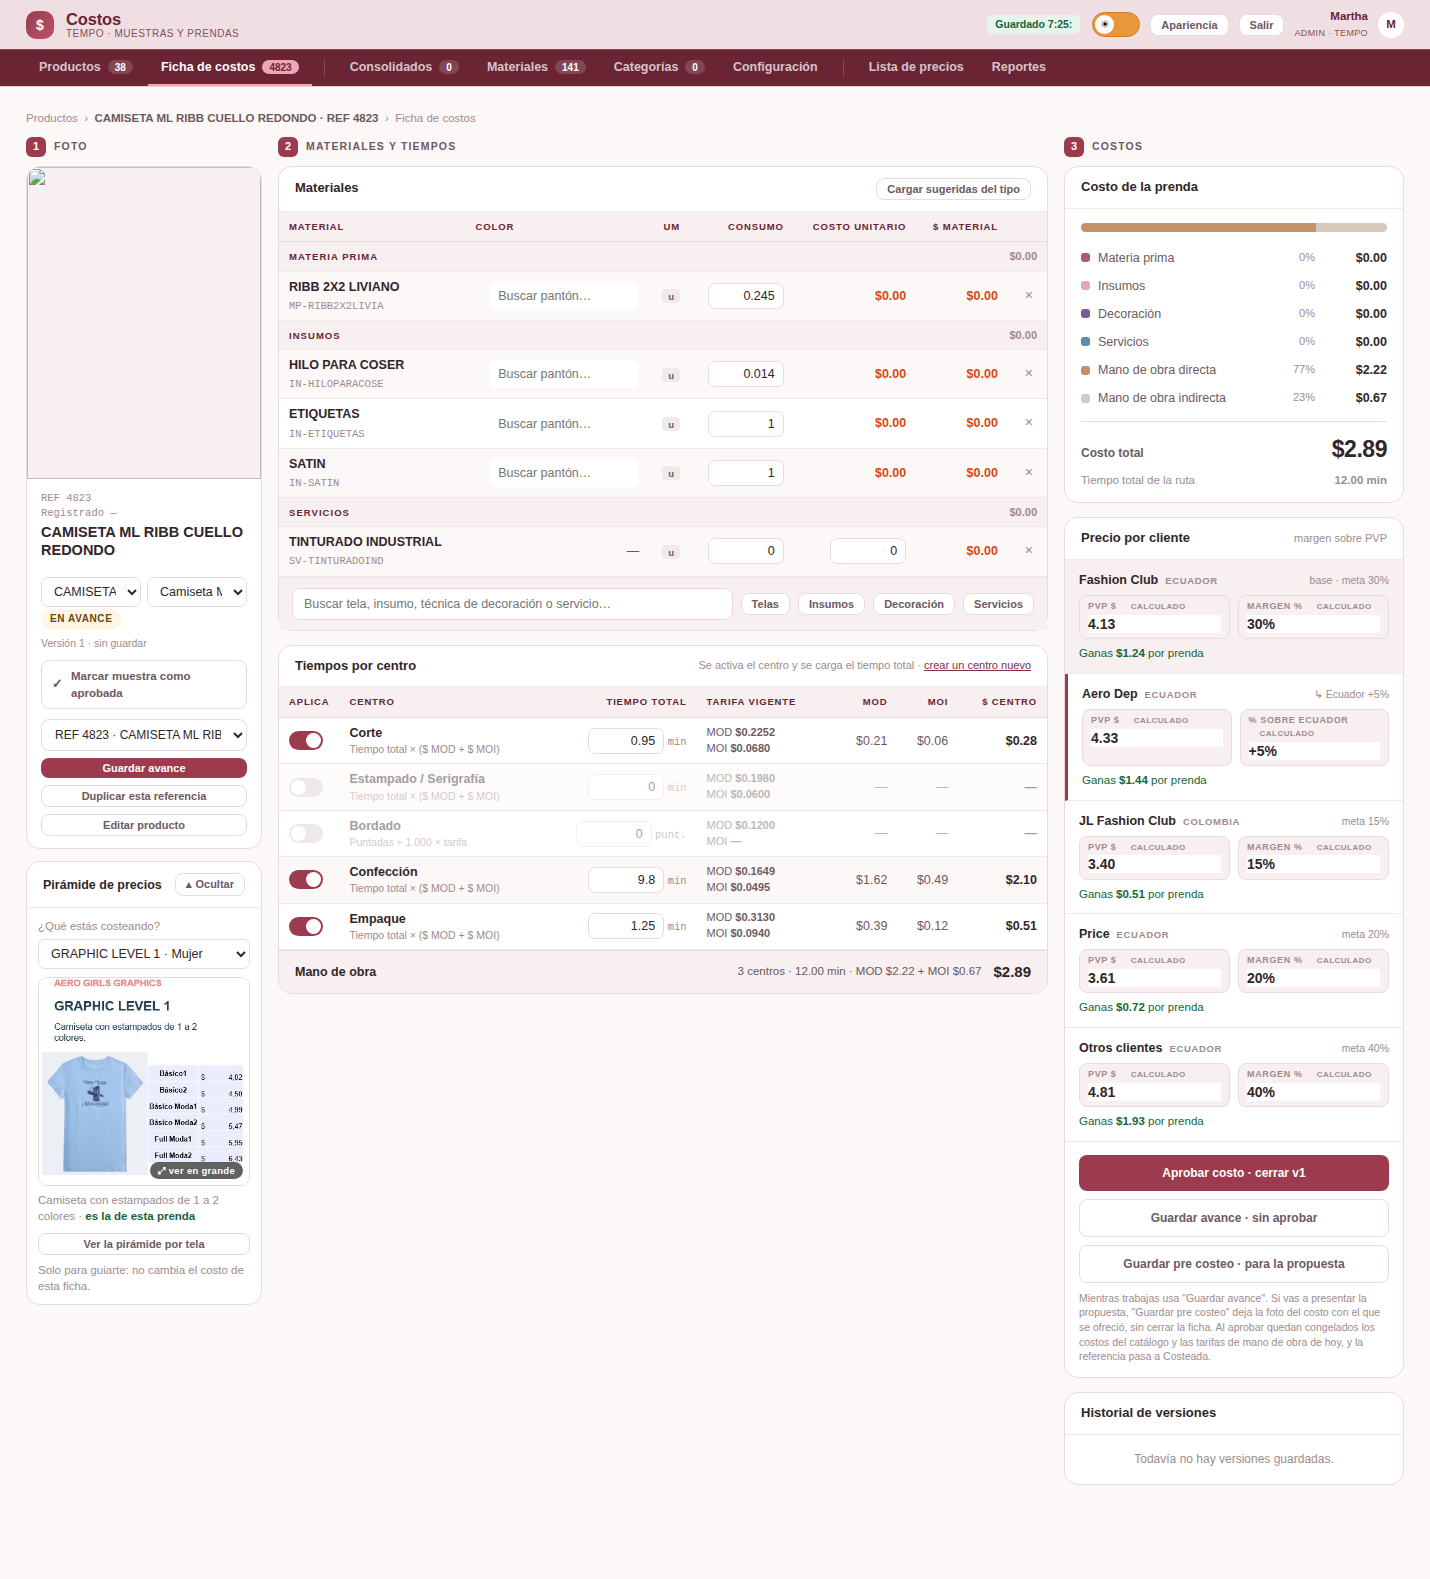
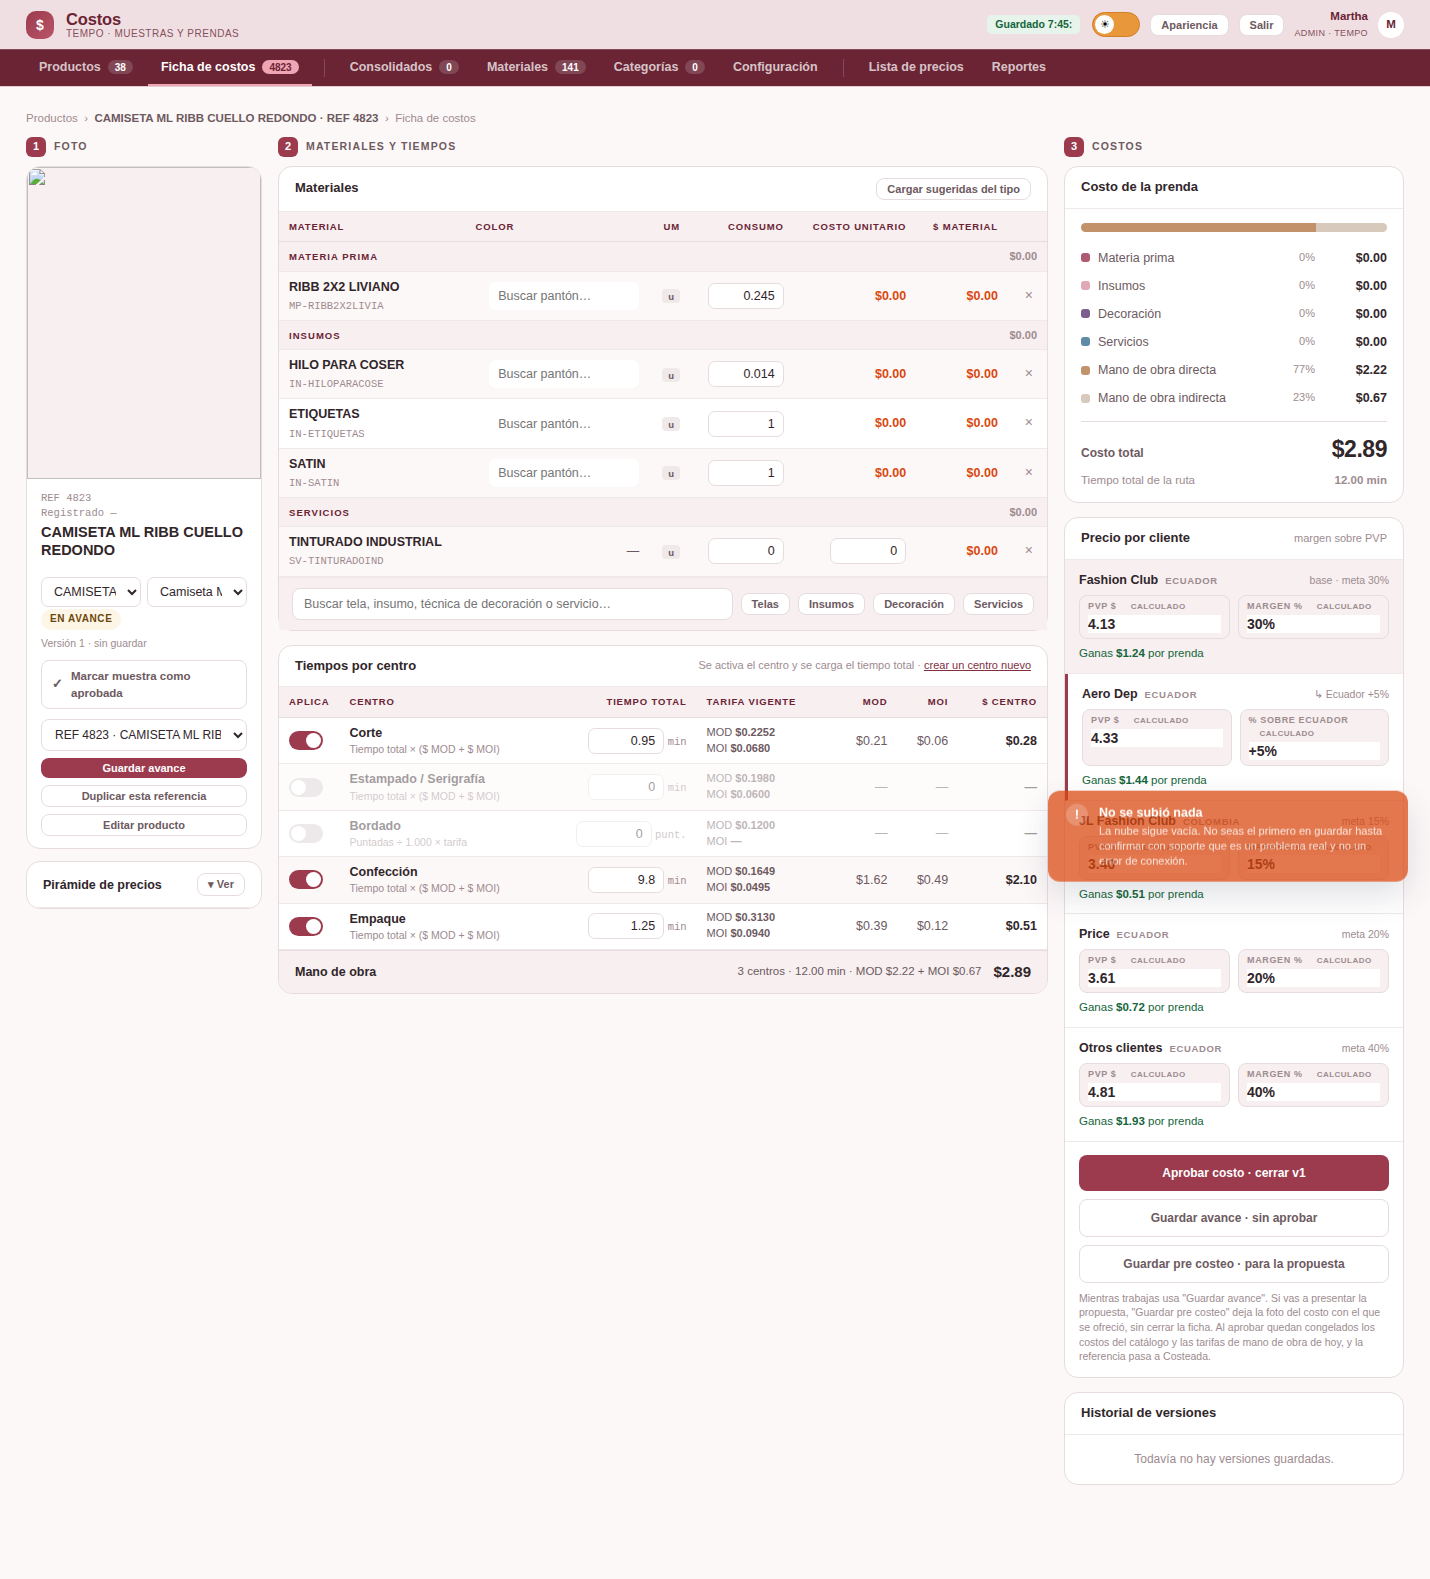
La pirámide sale abierta y elegida por la categoría del producto
- La tarjeta de la ficha ya no arranca cerrada: se abre sola mostrando
  los precios.
- La pirámide por defecto se escoge con la categoría del producto y se
  afina con el tipo, el nombre y el departamento.
- Si la categoría no tiene pirámide guardada, lo avisa y pide elegirla.

Claude-Session: https://claude.ai/code/session_01S6VmNmNynepNHTyWMZo4vB

Changed region(s): [[0.0308, 0.5586, 0.1846, 0.8379], [0.7077, 0.4965, 0.9846, 0.5586]]

diff --git a/index.html b/index.html
@@ -785,8 +785,8 @@ textarea.ta:focus{border-color:var(--vino);outline:none}
       <div class="card" id="card-pir" style="margin-top:12px">
         <div class="card-h" style="cursor:pointer;gap:6px" onclick="abrirPiramide()">
           <h2 style="font-size:12.5px">Pirámide de precios</h2>
-          <button class="btn ghost sm" id="pir-bt" style="margin-left:auto">▾ Ver</button></div>
-        <div id="pir-cuerpo" class="hide"></div>
+          <button class="btn ghost sm" id="pir-bt" style="margin-left:auto">▴ Ocultar</button></div>
+        <div id="pir-cuerpo"></div>
       </div>
     </div>
 
@@ -2669,15 +2669,22 @@ const PIRFOTO=[
 ];
 const PIR_COLOR={'C. blancos':'#ffffff','C. claros':'#e8dfd2','C. medios':'#9a7f63','C. oscuros':'#2f2a28',
   'Blanco':'#ffffff','Colores claros':'#e8dfd2','Colores medios':'#9a7f63','Colores oscuros':'#2f2a28'};
-let pirSel=0,pirAbierta=false,pirRef='',pirVista='tipo',pirFoto=0;
+let pirSel=0,pirAbierta=true,pirRef='',pirVista='tipo',pirFoto=0;
 /* Las pirámides que le tocan a esta prenda, por su categoría y departamento */
 function piramidesDeTipo(){
   const x=byRef(cur);if(!x)return [];
   const cat=String(x.cat||'').toUpperCase(),dep=String(x.dep||'');
+  /* palabras del tipo y del nombre, para afinar cuál de la categoría es la que toca */
+  const pal=(String(x.sub||'')+' '+String(x.n||'')).toUpperCase()
+    .split(/[^A-ZÁÉÍÓÚÑ0-9]+/).filter(z=>z.length>3);
+  const punto=i=>{const p=PIRFOTO[i];let v=0;
+    if(p.g===dep)v+=4;
+    const txt=(p.n+' '+p.d).toUpperCase();
+    pal.forEach(w=>{if(txt.includes(w))v+=2});
+    return v;};
   const dentro=[];
   PIRFOTO.forEach((p,i)=>{if(p.c.some(z=>z.toUpperCase()===cat))dentro.push(i)});
-  /* las del mismo departamento primero */
-  return dentro.sort((a,b)=>((PIRFOTO[b].g===dep)?1:0)-((PIRFOTO[a].g===dep)?1:0));
+  return dentro.sort((a,b)=>punto(b)-punto(a));
 }
 function verVistaPir(v){pirVista=v;rowsPiramide()}
 function verPiramide(i){pirSel=+i;rowsPiramide()}
@@ -2712,6 +2719,9 @@ function rowsPiramide(){
   if(pirRef!==cur){pirRef=cur;
     const d=piramidesDeLaFicha();if(d.length)pirSel=d[0];
     if(deTipo.length)pirFoto=deTipo[0];}
+  const cu=$('pir-cuerpo'),bt=$('pir-bt');
+  if(cu)cu.classList.toggle('hide',!pirAbierta);
+  if(bt)bt.textContent=pirAbierta?'▴ Ocultar':'▾ Ver';
   if(!pirAbierta){if(!$('ovl-pir').classList.contains('hide'))pintarPirModal();return}
   const sel=PIRFOTO[pirFoto]||PIRFOTO[0];
   const opc=i=>{const p=PIRFOTO[i];
@@ -2736,6 +2746,8 @@ function rowsPiramide(){
     </div>
     <div class="mini" style="margin:6px 0 0;line-height:1.4">${escR(sel.d)}${
       deTipo.includes(pirFoto)?' · <b style="color:var(--green-txt)">es la de esta prenda</b>':''}</div>
+    ${deTipo.length?'':`<div class="mini" style="margin:5px 0 0;line-height:1.4;color:var(--vino-2)">
+      No tengo pirámide guardada para la categoría ${escR(cat||'de esta prenda')}: elige arriba la que se parezca.</div>`}
     <button class="btn ghost sm" style="width:100%;margin-top:8px" onclick="verVistaPir('tela');abrirPirGrande()">Ver la pirámide por tela</button>
     <div class="mini" style="margin:7px 0 0;line-height:1.4">Solo para guiarte: no cambia el costo de esta ficha.</div>
   </div>`;
